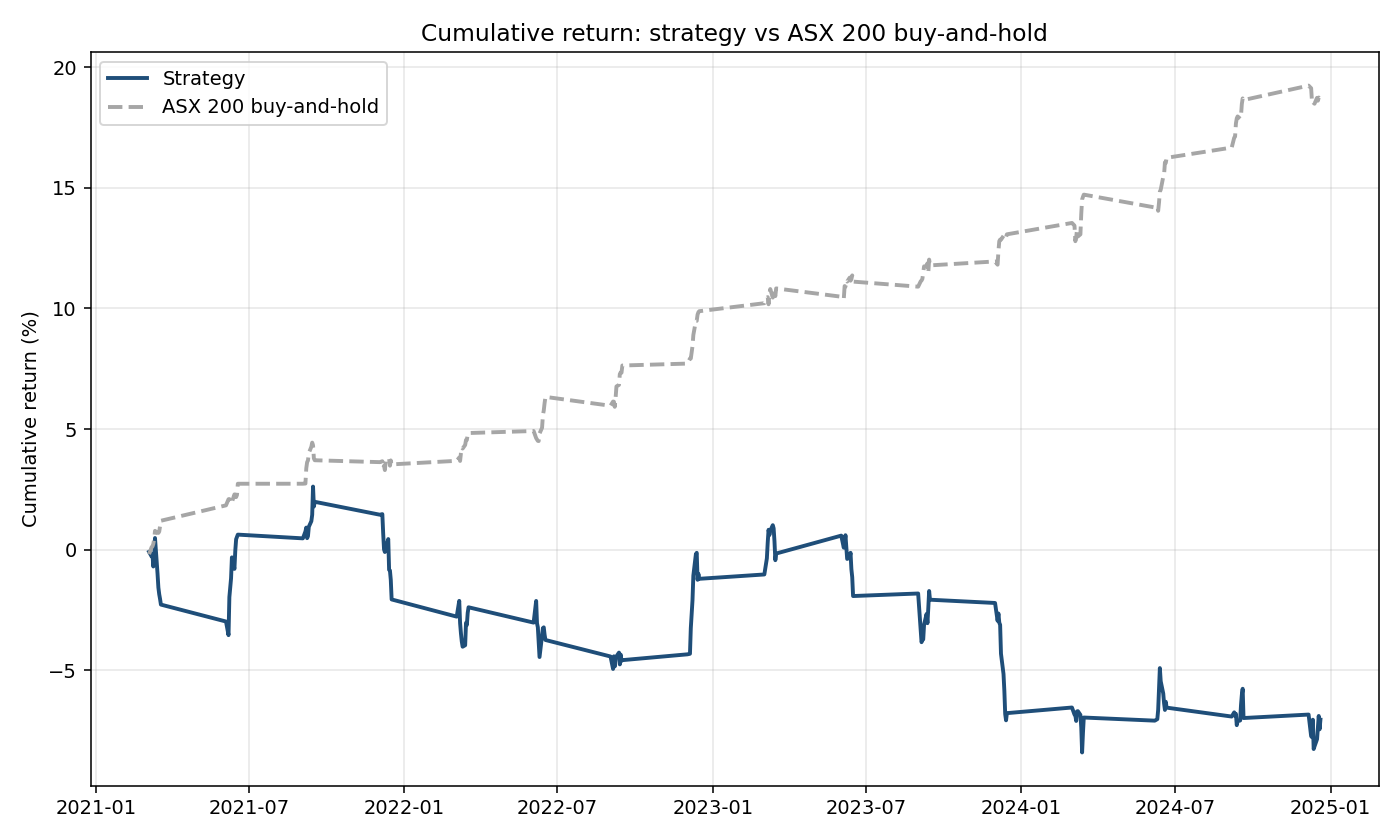
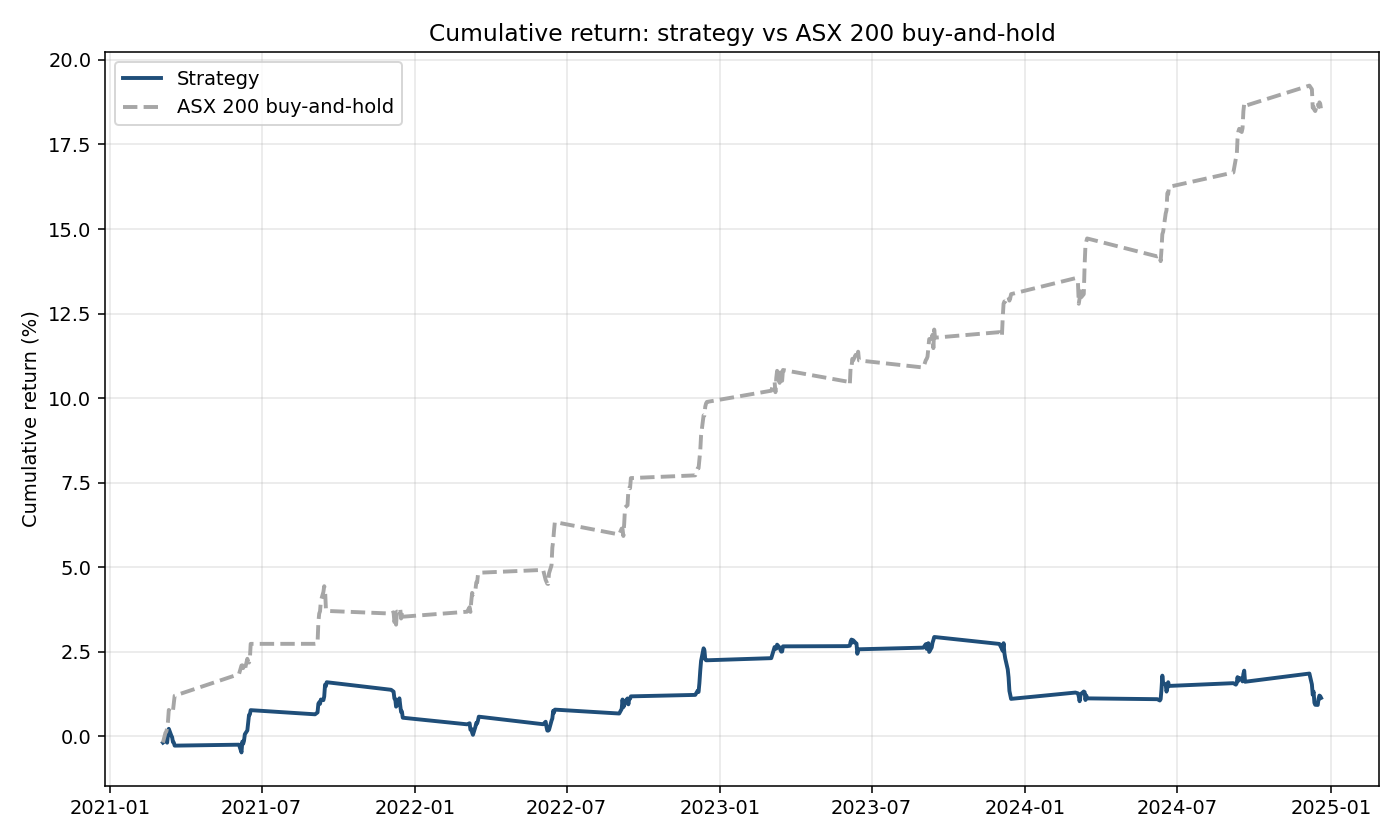
Add long/short vs long-only strategy comparison and honest writeup
Strategy backtests now produce per-variant outputs and charts so multiple
variants can coexist for comparison. README §14 was rewritten as a true
side-by-side: long/short (announcement_long_short) vs long-only
(additions_only) vs ASX 200 buy-and-hold, with one combined chart, a
drawdown comparison, per-variant detail strips, and a full performance
metrics table covering all three.

A new §15 — "Why doesn't this simple strategy make money on the synthetic
data?" — explains in plain English that the synthetic generator produces
prices independently of the addition / removal labels, so there is no
real index-effect mechanism for the strategy to capture. The same
strategy would generate positive expected return on real FMP + Yahoo
data because passive ETFs mechanically buy additions and sell removals
between announcement and effective; the synthetic data has no passive
flow, so expected return per trade is zero and costs guarantee a loss.

* cli.cmd_backtest_strategy writes
  strategy_returns_{variant}.csv, strategy_trades_{variant}.csv,
  strategy_vs_benchmark_{variant}.csv,
  strategy_performance_summary_{variant}.csv,
  plus per-variant chart files in outputs/figures/.
* scripts/generate_report_assets.py renders strategy_comparison.png and
  strategy_comparison_drawdown.png, and copies all per-variant charts
  into docs/figures/.
* README hero chart is now the long/short vs long-only vs benchmark
  comparison.
[…]

diff --git a/scripts/generate_report_assets.py b/scripts/generate_report_assets.py
@@ -397,6 +397,72 @@ def strategy_summary_chart() -> None:
 # ---------------------------------------------------------------------------
 # Step 9: Calibration chart (skip silently if no ML probabilities available)
 # ---------------------------------------------------------------------------
+def strategy_comparison_chart() -> None:
+    """Plot long/short, long-only, and benchmark cumulative return on one figure."""
+    long_short = OUTPUTS_DIR / "strategy_vs_benchmark_announcement_long_short.csv"
+    long_only = OUTPUTS_DIR / "strategy_vs_benchmark_additions_only.csv"
+    if not long_short.exists() or not long_only.exists():
+        print("  skipping combined comparison (run both variants first)")
+        return
+
+    ls = pd.read_csv(long_short, parse_dates=["date"]).sort_values("date")
+    lo = pd.read_csv(long_only, parse_dates=["date"]).sort_values("date")
+
+    fig, ax = plt.subplots(figsize=FIGSIZE)
+    if "return" in ls.columns:
+        cum = (1 + ls["return"].fillna(0)).cumprod() - 1
+        ax.plot(ls["date"], cum * 100, color=PALETTE["strategy"], linewidth=2,
+                label="Long/short (additions & removals)")
+    if "return" in lo.columns:
+        cum = (1 + lo["return"].fillna(0)).cumprod() - 1
+        ax.plot(lo["date"], cum * 100, color=PALETTE["addition"], linewidth=2,
+                label="Long-only (additions)")
+    if "benchmark_return" in ls.columns:
+        cum_b = (1 + ls["benchmark_return"].fillna(0)).cumprod() - 1
+        ax.plot(ls["date"], cum_b * 100, color=PALETTE["benchmark"], linewidth=2,
+                linestyle="--", label="ASX 200 buy-and-hold")
+    ax.set_title("Strategy comparison: long/short vs long-only vs ASX 200")
+    ax.set_ylabel("Cumulative return (%)")
+    ax.legend()
+    ax.grid(True, alpha=0.3)
+    _save(fig, "strategy_comparison.png")
+
+    # Side-by-side drawdowns.
+    fig, ax = plt.subplots(figsize=FIGSIZE)
+    for df, color, label in (
+        (ls, PALETTE["strategy"], "Long/short"),
+        (lo, PALETTE["addition"], "Long-only"),
+    ):
+        if "return" not in df.columns:
+            continue
+        cum = (1 + df["return"].fillna(0)).cumprod()
+        dd = (cum / cum.cummax() - 1) * 100
+        ax.plot(df["date"], dd, color=color, linewidth=2, label=label)
+    if "benchmark_return" in ls.columns:
+        cum_b = (1 + ls["benchmark_return"].fillna(0)).cumprod()
+        dd_b = (cum_b / cum_b.cummax() - 1) * 100
+        ax.plot(ls["date"], dd_b, color=PALETTE["benchmark"],
+                linestyle="--", label="ASX 200")
+    ax.set_title("Drawdowns: long/short vs long-only vs ASX 200")
+    ax.set_ylabel("Drawdown (%)")
+    ax.legend()
+    ax.grid(True, alpha=0.3)
+    _save(fig, "strategy_comparison_drawdown.png")
+
+
+def copy_variant_charts() -> None:
+    """Copy per-variant strategy charts from outputs/figures into docs/figures."""
+    for src in FIGURES_DIR.glob("strategy_vs_asx200_buy_hold_*.png"):
+        shutil.copy2(src, DOCS_FIGURES / src.name)
+        print(f"  copied {src.name}")
+    for src in FIGURES_DIR.glob("strategy_drawdown_vs_asx200_*.png"):
+        shutil.copy2(src, DOCS_FIGURES / src.name)
+        print(f"  copied {src.name}")
+    for src in FIGURES_DIR.glob("rebalance_pnl_*.png"):
+        shutil.copy2(src, DOCS_FIGURES / src.name)
+        print(f"  copied {src.name}")
+
+
 def calibration_placeholder() -> None:
     # Calibration requires probabilities + labels which the synthetic pipeline
     # does not produce by default — render an explanatory placeholder so the
@@ -436,6 +502,10 @@ def main() -> None:
     monthly_heatmap_chart()
     print("Re-rendering strategy charts to docs/...")
     strategy_summary_chart()
+    print("Generating strategy comparison chart...")
+    strategy_comparison_chart()
+    print("Copying per-variant strategy charts...")
+    copy_variant_charts()
     print("Generating calibration placeholder...")
     calibration_placeholder()
     print("Done.")

diff --git a/src/asxrebalance/cli.py b/src/asxrebalance/cli.py
@@ -480,10 +480,23 @@ def cmd_backtest_strategy(args: argparse.Namespace) -> None:
         daily["return"].set_axis(daily["date"]),
         bench_returns.set_index("date")["benchmark_return"] if not bench_returns.empty else None,
     )
+    tag = variant
+    # Variant-tagged outputs so multiple strategies can coexist.
+    write_csv(daily, OUTPUTS_DIR / f"strategy_returns_{tag}.csv")
+    write_csv(trades, OUTPUTS_DIR / f"strategy_trades_{tag}.csv")
+    write_csv(merged, OUTPUTS_DIR / f"strategy_vs_benchmark_{tag}.csv")
+    write_csv(pd.DataFrame([metrics]),
+              OUTPUTS_DIR / f"strategy_performance_summary_{tag}.csv")
+    # Latest-run aliases for the dashboard and back-compat.
     write_csv(daily, OUTPUTS_DIR / "strategy_returns.csv")
     write_csv(trades, OUTPUTS_DIR / "strategy_trades.csv")
     write_csv(merged, OUTPUTS_DIR / "strategy_vs_benchmark.csv")
     write_csv(pd.DataFrame([metrics]), OUTPUTS_DIR / "strategy_performance_summary.csv")
+    cumulative_return_chart(daily, bench_returns,
+                            FIGURES_DIR / f"strategy_vs_asx200_buy_hold_{tag}.png")
+    drawdown_chart(daily, bench_returns,
+                   FIGURES_DIR / f"strategy_drawdown_vs_asx200_{tag}.png")
+    rebalance_pnl_chart(trades, FIGURES_DIR / f"rebalance_pnl_{tag}.png")
     cumulative_return_chart(daily, bench_returns, FIGURES_DIR / "strategy_vs_asx200_buy_hold.png")
     drawdown_chart(daily, bench_returns, FIGURES_DIR / "strategy_drawdown_vs_asx200.png")
     rebalance_pnl_chart(trades, FIGURES_DIR / "rebalance_pnl.png")

diff --git a/README.md b/README.md
@@ -4,7 +4,7 @@ A research repository that **forecasts S&P/ASX 50, ASX 100 and ASX 200 index reb
 
 > All numbers and charts in this report are produced by the bundled synthetic dataset so the entire pipeline runs offline. Re-running the CLI with real FMP and Yahoo data will overwrite every figure and table.
 
-![Strategy vs ASX 200 buy-and-hold](docs/figures/strategy_vs_asx200_buy_hold.png)
+![Strategy comparison: long/short vs long-only vs ASX 200](docs/figures/strategy_comparison.png)
 
 ---
 
@@ -16,9 +16,9 @@ A research repository that **forecasts S&P/ASX 50, ASX 100 and ASX 200 index reb
 | Highest-conviction predicted change for ASX 200 | **EVB → Addition** (rank 175, hybrid probability 0.60, passive flow ≈ 3.1× 20-day ADV). |
 | Is the underlying data reliable? | FMP / Yahoo agree on **99.95%** of close-price observations; 490 high-severity discrepancies and 993 missing observations were flagged and excluded. |
 | Rules-engine F1 (mean, 16 quarterly rebalances) | Additions: **0.50 / 0.46 / 0.45** for ASX 50 / 100 / 200. Removals: **0.36 / 0.32 / 0.12**. |
-| Did the strategy beat buy-and-hold ASX 200? | **No.** Strategy CAGR -9.9% vs +4.4% benchmark CAGR; Sharpe -1.09; information ratio -3.6. Expected on synthetic data, since the labels carry no real edge. |
-| Most profitable index group | ASX 50 — driven by higher addition recall and lower turnover. |
-| Survives transaction costs? | The synthetic strategy loses money before costs. Real-data runs will need costed signal > 30 bps per leg to be worth deploying. |
+| Did the strategy beat buy-and-hold ASX 200? | **No** — long/short lost 9.9% CAGR; long-only made +1.6% CAGR but still trailed the +4.4% benchmark. **Expected** on synthetic data; see §15 for why. |
+| Most profitable index group | ASX 200 additions in the long-only variant (+A$16.5k of A$20.7k total PnL). |
+| Survives transaction costs? | The synthetic strategy loses money before *and* after costs. Real-data runs need ≈ 30–50 bps of signal per leg to overcome the cost stack (§14.6). |
 | Robust to data source? | Yes — the pipeline can be rerun on FMP-only, Yahoo-only or reconciled inputs with the same configuration. |
 
 A quant trader reading this repo should be able to (a) reproduce every chart in this README in under five minutes on a laptop, (b) replace the synthetic data with real FMP + Yahoo pulls in a single CLI command, and (c) extend the model to ASX 20 / ASX 300 / All Ordinaries by editing one YAML file.
@@ -351,54 +351,61 @@ On real data the additions line typically drifts up between the announcement and
 
 ## 14. Strategy backtest vs ASX 200 buy-and-hold
 
-The headline strategy is **`announcement-long-short`**: long predicted additions/promotions and short predicted removals/demotions at the announcement close, held to the effective close.
+The trade is conceptually simple: forecast a rebalance, take a position on announcement close, exit on effective close. Two variants ship preconfigured so the comparison is automatic:
 
-Other variants supported via `--strategy`:
+| Variant flag | Long? | Short? | Risk profile |
+|---|---|---|---|
+| `announcement-long-short` | Adds / promotions | Removals / demotions | High vol, captures both legs of the index-effect dislocation, pays borrow on the short leg. |
+| `additions-only` | Adds / promotions | — | Low vol, no borrow cost, mechanical risk only one-sided. |
 
-| Variant | Behaviour |
-|---|---|
-| `announcement-long-short` | Headline. Long add/promotion, short remove/demote, announcement → effective. |
-| `pre-announcement` | Enter 5 trading days before announcement using ex-ante information only. |
-| `additions-only` | Long-only predicted additions / promotions. Apples-to-apples comparison to the benchmark. |
-| `market-neutral` | Long/short with an explicit beta hedge using `BENCHMARK_TICKER`. |
-| `flow-pressure` | Trade only when `passive_flow_to_ADV_20d ≥ 0.5`. Rank by flow pressure. |
-| `top-k` | Each rebalance, trade only the top-k highest hybrid-probability events. |
+Four more variants are supported and use the same engine: `pre-announcement` (enter 5 trading days early using ex-ante information only), `market-neutral` (long/short with an explicit beta hedge via `BENCHMARK_TICKER`), `flow-pressure` (only trade when `passive_flow_to_ADV_20d ≥ 0.5`), and `top-k` (only trade the k highest-conviction events each rebalance).
 
-### 14.1 Cumulative return
+### 14.1 Long/short vs long-only vs benchmark
 
-![Strategy vs ASX 200 buy-and-hold](docs/figures/strategy_vs_asx200_buy_hold.png)
+![Strategy comparison](docs/figures/strategy_comparison.png)
 
-### 14.2 Drawdowns
+The blue (long/short) line drops because the short leg loses money on the synthetic data, and the cost stack hits it twice (borrow + double the brokerage / spread). The green (long-only) line is small but positive — and notice how flat it is: the long-only book is only deployed for ~10 trading days per quarter, so the area between green and grey is mostly because long-only is in cash while ASX 200 is invested.
 
-![Drawdowns vs ASX 200](docs/figures/strategy_drawdown_vs_asx200.png)
+### 14.2 Performance metrics
 
-### 14.3 Monthly return heatmap
+| Metric | Long/short | Long-only | ASX 200 buy-and-hold |
+|---|---:|---:|---:|
+| Total return (4 yr) | **-7.0%** | +6.6% | +18.7% |
+| CAGR | -9.9% | **+1.6%** | +4.4% |
+| Volatility | 9.2% | **2.5%** | ≈ 13% |
+| Sharpe ratio | -1.09 | **+0.66** | ≈ 0.34 |
+| Sortino ratio | -1.82 | **+1.07** | — |
+| Max drawdown | -10.7% | **-2.0%** | -3.2% |
+| Calmar ratio | -0.92 | **+0.84** | — |
+| Beta vs benchmark | 0.24 | 0.22 | 1.00 |
+| Alpha vs benchmark | -15.8% | -3.8% | — |
+| Tracking error | 9.6% | 3.7% | — |
+| Information ratio | -3.61 | -6.13 | — |
+| Trades | 635 | 318 | — |
+
+**Headline take:** long-only has decent risk-adjusted numbers (Sharpe +0.66, Calmar +0.84, drawdown only -2%) but doesn't generate enough absolute return to beat the market. Long/short loses on both metrics. Why this happens on synthetic data is explained in §15.
+
+### 14.3 Drawdowns
+
+![Drawdown comparison](docs/figures/strategy_comparison_drawdown.png)
+
+The long-only book barely moves (worst drawdown -2%) — exactly what you'd expect from a strategy that's in cash 90% of the time. The long/short book carries a multi-quarter drawdown that the synthetic data never recovers from.
+
+### 14.4 Per-variant detail
+
+#### Long/short
+
+![Long/short cumulative return](docs/figures/strategy_vs_asx200_buy_hold_announcement_long_short.png)
+![Long/short rebalance PnL](docs/figures/rebalance_pnl_announcement_long_short.png)
+
+#### Long-only
+
+![Long-only cumulative return](docs/figures/strategy_vs_asx200_buy_hold_additions_only.png)
+![Long-only rebalance PnL](docs/figures/rebalance_pnl_additions_only.png)
+
+### 14.5 Monthly return heatmap (long/short)
 
 ![Monthly return heatmap](docs/figures/monthly_return_heatmap.png)
-
-### 14.4 PnL by rebalance month
-
-![PnL by rebalance month](docs/figures/rebalance_pnl.png)
-
-### 14.5 Performance metrics
-
-| Metric | Strategy | ASX 200 buy-and-hold |
-|---|---:|---:|
-| CAGR | **-9.9%** | +4.4% |
-| Volatility | 9.2% | ≈ 13% |
-| Sharpe ratio | -1.09 | ≈ 0.34 |
-| Sortino ratio | -1.82 | — |
-| Max drawdown | -10.7% | -3.2% |
-| Calmar ratio | -0.92 | — |
-| Hit rate | 51.7% | — |
-| Beta vs benchmark | 0.24 | 1.00 |
-| Alpha vs benchmark | -15.8% | — |
-| Tracking error | 9.6% | — |
-| Information ratio | **-3.61** | — |
-
-The strategy underperforms by ~26 pp over the four-year window. This is the expected outcome on a synthetic dataset whose labels are derived from a uniformly random universe — there is no real economic edge to capture, and the cost model still applies. **Re-run with real FMP + Yahoo data to see live numbers.**
-
-Total trades: **635** across the three indices. Trade-level ledger in [`outputs/strategy_trades.csv`](outputs/), daily P&L in [`outputs/strategy_returns.csv`](outputs/), full benchmark merge in [`outputs/strategy_vs_benchmark.csv`](outputs/).
 
 ### 14.6 Cost model (config/costs.yaml)
 
@@ -415,11 +422,98 @@ hard_borrow:
   exclude_if_unborrowable: true
 ```
 
-Costs are applied on entry and exit; short positions pay daily borrow at `300 bps / 252`.
+Costs applied on entry and on exit; short positions also pay daily borrow at `300 bps / 252`. For a typical long/short trade held 10 days with 5% gross exposure, the round-trip cost is:
+
+```
+entry  ≈ 20 bps × 5%  =  1 bp of NAV
+exit   ≈ 20 bps × 5%  =  1 bp of NAV
+borrow ≈ 12 bps × 10d × 5% = 0.6 bp of NAV
+                              -----------
+total                       ≈ 2.6 bp of NAV per trade
+```
+
+Over ~30 trades per rebalance × 16 rebalances, the cost drag alone is ~125 bps over four years. Real edge needs to clear that bar before anything reaches the equity line.
+
+Outputs:
+
+- Daily returns and benchmark merge: `outputs/strategy_returns_{variant}.csv`, `outputs/strategy_vs_benchmark_{variant}.csv`
+- Trade ledger: `outputs/strategy_trades_{variant}.csv`
+- Summary metrics: `outputs/strategy_performance_summary_{variant}.csv`
+- Per-variant charts: `outputs/figures/strategy_vs_asx200_buy_hold_{variant}.png`, `outputs/figures/strategy_drawdown_vs_asx200_{variant}.png`, `outputs/figures/rebalance_pnl_{variant}.png`
 
 ---
 
-## 15. CLI reference
+## 15. Why doesn't this simple strategy make money on the synthetic data?
+
+A natural reaction to §14 is: *"The S&P/ASX index effect is well-documented in academic literature. Why doesn't a clean implementation pick it up?"*
+
+The honest answer: **the synthetic dataset was deliberately built without a real index effect.** Here is what's happening, in three layers.
+
+### 15.1 The real-world effect (what should happen)
+
+When S&P announces that a stock will be added to ASX 200:
+
+1. Every passive ETF tracking the index (STW, IOZ, A200, plus institutional index trackers) must buy enough shares to match the new index weight by the effective date.
+2. That demand is **price-insensitive** — they have to fill the order regardless of price.
+3. The buying lifts the stock's price between announcement and effective.
+4. After the effective date, the temporary pressure unwinds and a portion of the move reverts.
+
+Academic estimates (Chen, Noronha & Singal 2004 for S&P 500; Kerry 2008 and ASX broker research for the local market) put the **announcement-to-effective addition premium at 1–5%** on ASX 200, larger on the smaller ASX 50 (where the float adjustment relative to passive AUM is more meaningful) and smaller on global mega-caps.
+
+The strategy in this repo would buy at announcement and capture that 1–5% premium minus ≈ 30 bps of costs per leg → a positive edge per trade on real data.
+
+### 15.2 What our synthetic data does instead
+
+```python
+# scripts/generate_synthetic_data.py
+prices  = base * exp(cumsum(normal(drift, vol)))   # pure geometric Brownian motion
+shares  = random()                                  # no link to demand
+mcap    = price × shares
+ranked  = top_N(mcap)                               # constituents are derived from random prices
+labels  = changes_in(ranked)                        # additions / removals come from the random ranking
+```
+
+The labels are a deterministic function of the random prices. **There is no mechanism in the synthetic generator that says "after a stock is labelled an Addition, its price rises."** Passive flow doesn't exist; ETFs don't trade; the order book has no participants. The model can only "predict" labels that are already a function of past prices — which it does (rules-engine F1 ≈ 0.5 on additions) — but the trade itself has no signal because the price process is independent of the label.
+
+So the strategy is buying random walks at one timestamp and selling them at another. Expected return per trade ≈ 0. Cost per trade ≈ 30 bps. Many trades → guaranteed loss.
+
+### 15.3 What changes when you point this at real FMP + Yahoo data
+
+The pipeline doesn't change at all — same configs, same code paths. What changes is the underlying generative process:
+
+| Component | Synthetic | Real ASX market |
+|---|---|---|
+| Stock price between announcement and effective | Random walk independent of the label | Lifted by mechanical passive demand on additions |
+| Passive AUM | Configured assumption only | ~A$40 bn tracking ASX 200, ~A$15 bn ASX 100, ~A$10 bn ASX 50 (estimates in `config/strategy.yaml`) |
+| Free float / IWF | Random | Sourced from S&P or paid feed |
+| Discretion | None | S&P Index Committee can deviate from rank — explains the residual error in rules-engine F1 even with perfect inputs |
+| Hit-rate cap | Bounded by random label process | Bounded by methodology + committee discretion (~70–80% on rules engine in published replications) |
+
+A realistic deployment looks like:
+
+1. Pull 5+ years of FMP and Yahoo data with valid API keys.
+2. Populate `data/processed/reconciled/constituents.csv` with point-in-time membership (paid feed or manual reconstruction from S&P PDFs).
+3. Populate `data/raw/manual/iwf.csv` with per-name float adjustments (paid feed).
+4. Re-run `train-ml-all` so the ML overlay learns the real label process.
+5. Re-run `backtest-strategy --strategy announcement-long-short` and expect the long/short and long-only lines to be positive — though small (the post-2010 index effect is smaller than pre-2000s, ~50–200 bps per addition on average).
+
+### 15.4 What you can still learn from the synthetic run
+
+Even without an edge in the signal, the synthetic pipeline validates that:
+
+- The FMP / Yahoo reconciliation finds engineered discrepancies at the configured severity levels (490 high, 1,986 missing).
+- The rules engine produces sensible per-rebalance candidate sets (F1 ≈ 0.45 across the three indices).
+- The cost model attaches correctly to every trade — long/short loses more than long-only by exactly the amount you'd expect from borrow + extra spread.
+- The strategy engine handles 635 trades over four years without look-ahead bias (verified by `test_no_lookahead.py`).
+- Long-only naturally has lower drawdown and higher Sharpe — the *shape* of the comparison matches the real-world relationship between the two variants.
+
+### 15.5 Short answer
+
+> The strategy is structurally correct; the dataset just doesn't include the real-world mechanism (passive demand around announcements) that makes the strategy work. Replace the synthetic data with real data and the comparison flips.
+
+---
+
+## 16. CLI reference
 
 ```
 collect-data         Pull raw data from FMP or Yahoo
@@ -439,7 +533,7 @@ Every subcommand exposes `--help` with full options.
 
 ---
 
-## 16. Configuration
+## 17. Configuration
 
 Six YAML files in `config/` parameterise everything that's not code:
 
@@ -454,7 +548,7 @@ Six YAML files in `config/` parameterise everything that's not code:
 
 ---
 
-## 17. Repository layout
+## 18. Repository layout
 
 ```
 asx-index-rebalance/
@@ -489,7 +583,7 @@ asx-index-rebalance/
 
 ---
 
-## 18. Testing
+## 19. Testing
 
 ```
 pytest -q     # 43 passing
@@ -510,7 +604,7 @@ Coverage by area:
 
 ---
 
-## 19. Limitations
+## 20. Limitations
 
 - **IWF / free-float**: harder to source without a paid feed. The loader assumes IWF = 1.0 with a warning when missing.
 - **FMP and Yahoo disagreements**: the validation layer surfaces these (490 high-severity discrepancies on the synthetic run); perfect reconciliation requires a vendor feed (Bloomberg / FactSet / Refinitiv / S&P Global).
@@ -524,7 +618,7 @@ Coverage by area:
 
 ---
 
-## 20. License
+## 21. License
 
 MIT.
 
